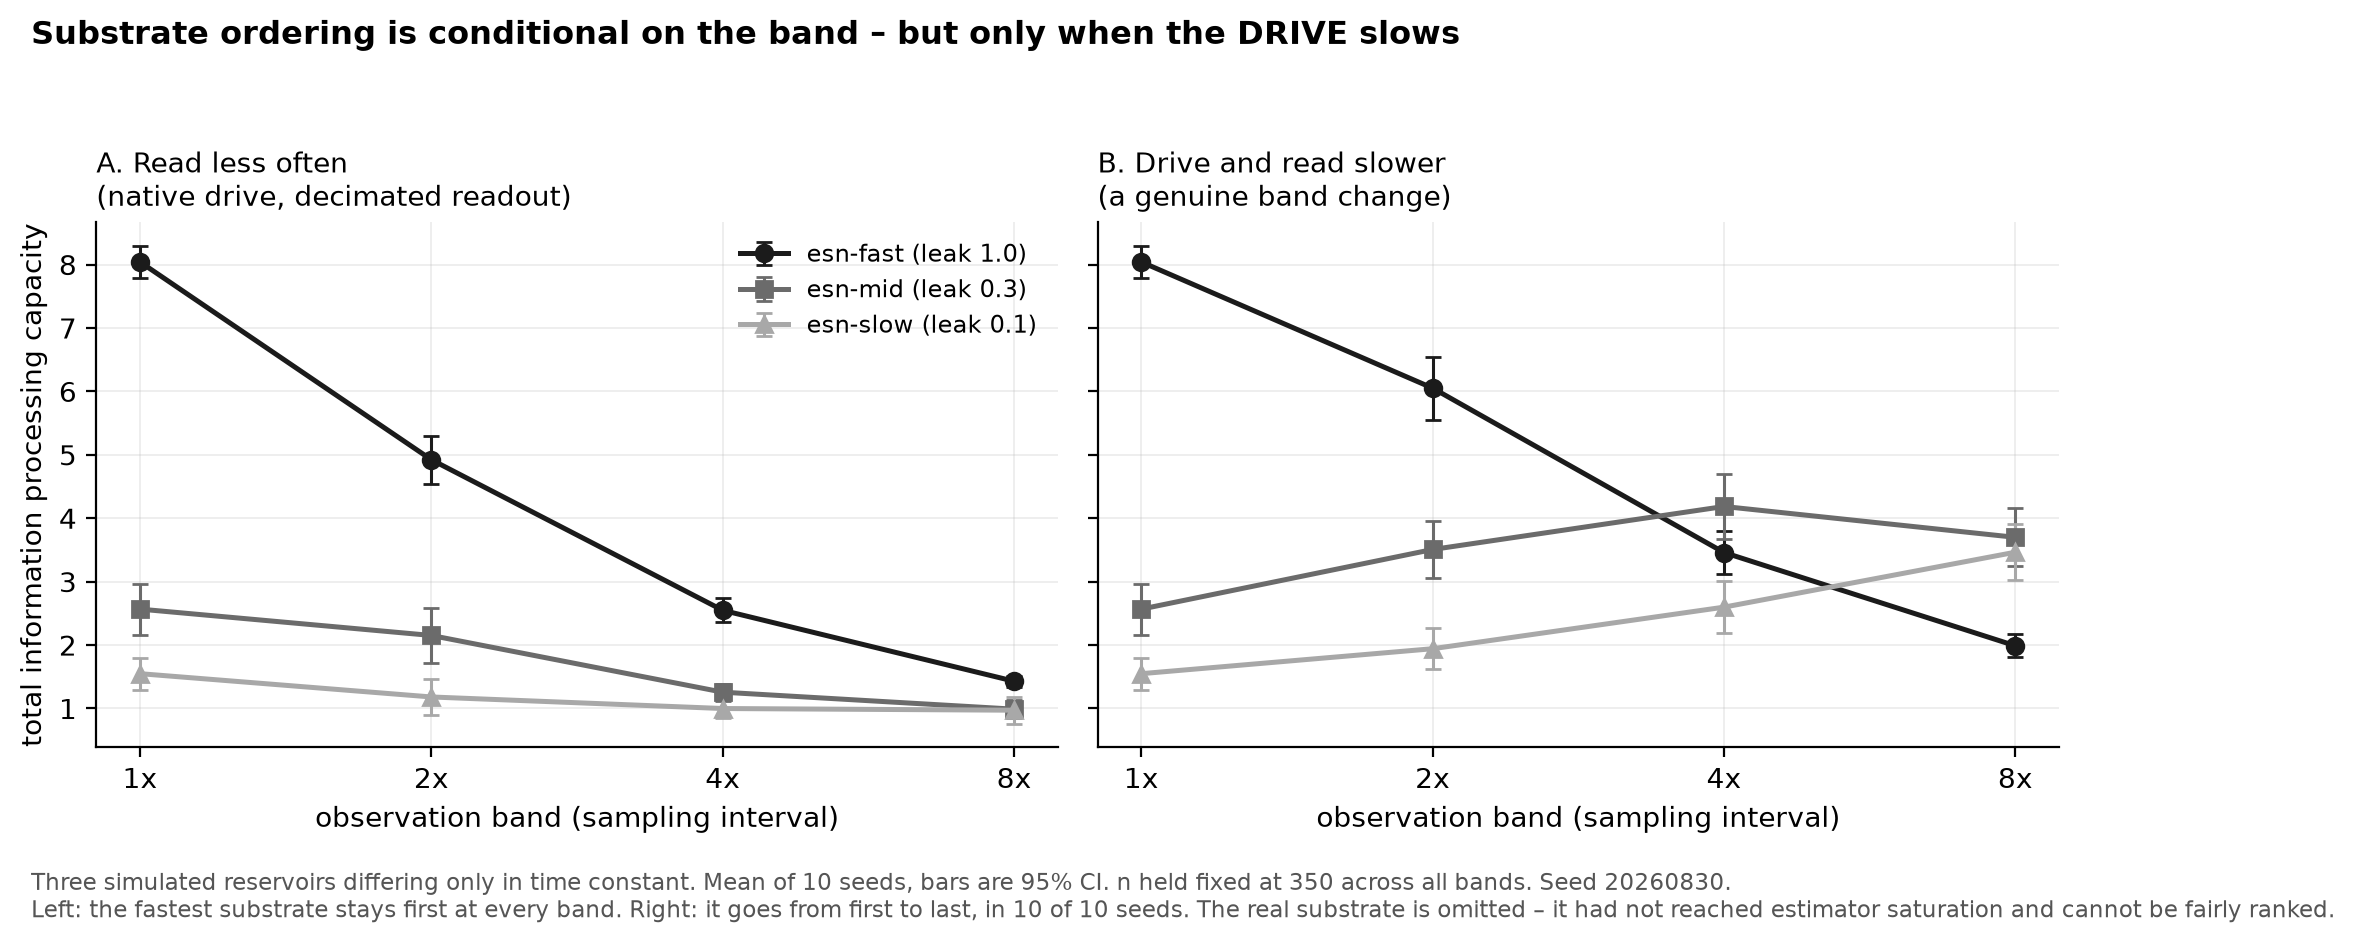
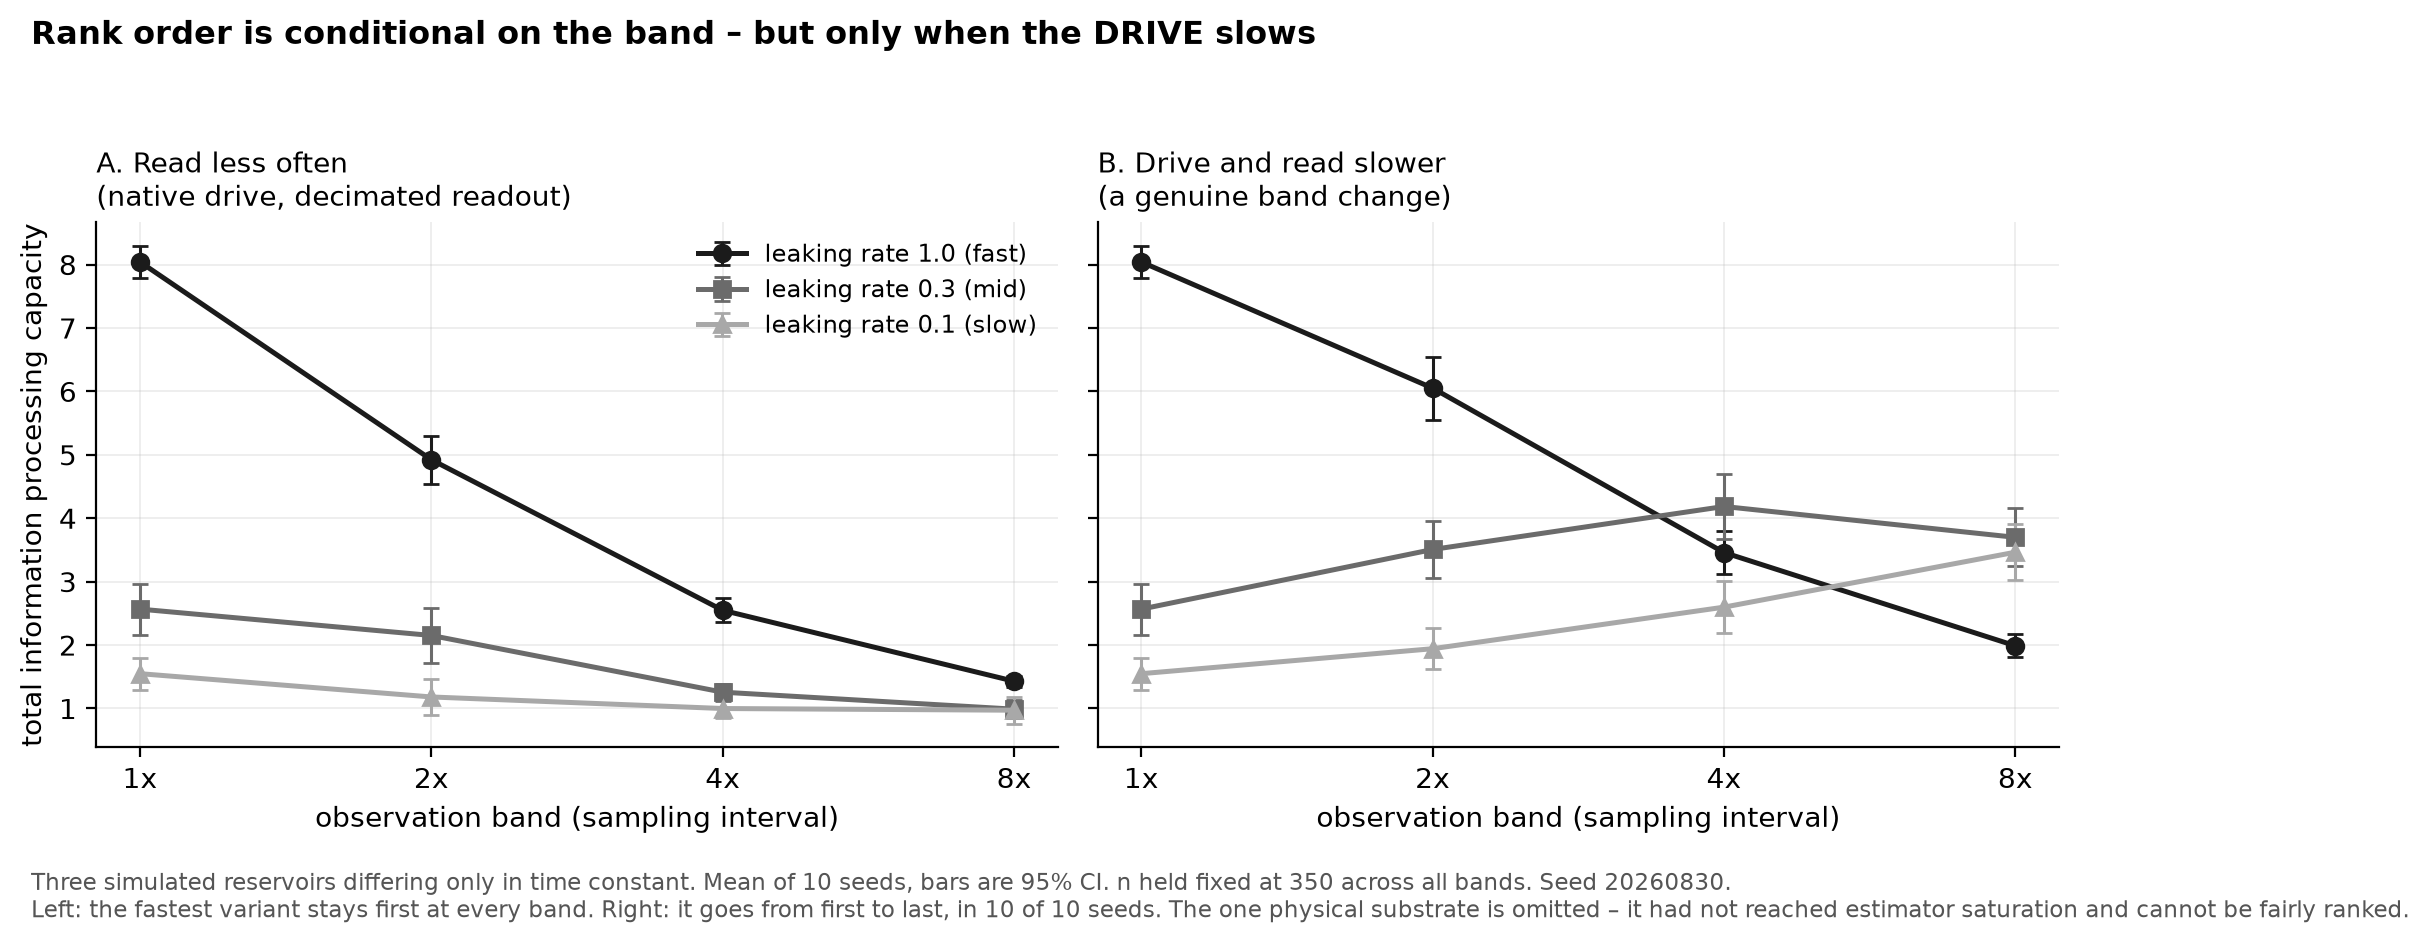
Correct the figure vocabulary and the retracted mechanism; add availability
The figures were rendered before the accompanying paper settled its wording, and
two of them shipped claims the paper no longer makes:

- band_ordering.png was titled "Substrate ordering is conditional on the band".
  Leaky ESNs differing only in leak rate are parameterised variants within one
  architecture family, not different substrates. Retitled to "Rank order", legend
  relabelled to the leaking rates, and the caption now says "the fastest variant".
- e1_architecture.png asserted the ALIASING mechanism -- "because a resonant
  substrate read below twice its oscillation frequency is aliased" -- which E4
  tested and RETRACTED. Its caption now states the retraction and offers the
  graded timescale mismatch as a description, not a mechanism.

Figures regenerated from the existing result tables. No experiment was re-run and
no number changed; this is a rendering fix.

In make_figure.py the style dict is now keyed by the CSV's `substrate` column
value with a separate LABEL map for display. Renaming the keys directly broke the
lookup, because those keys are data values, not labels.

README: title and figure alt-text corrected, a wording note added explaining that
"substrate" below refers to the study as first written, and an Availability
section added carrying the Zenodo concept DOI and the companion Hugging Face
dataset -- required by the public mirror standard, previously absent.

Claude-Session: https://claude.ai/code/session_01WoL6mxdCGPFFDwAFebPug2

diff --git a/code/make_figure.py b/code/make_figure.py
@@ -16,11 +16,22 @@ OUT = Path(__file__).resolve().parents[1] / "output"
 df = pd.read_csv(OUT / "band_ordering_rows.csv")
 df = df[df.substrate != "nanowire-network (real)"]
 
+# Keyed by the value in the CSV's `substrate` column (the data schema, which does
+# not change); LABEL supplies the display name used in the legend. The two are
+# separate because the paper's vocabulary was corrected after these rows were run:
+# leaky ESNs differing only in leak rate are parameterised VARIANTS within one
+# architecture family, not different substrates.
 STYLE = {
     "esn-fast (leak 1.0)": ("#1b1b1b", "o", "-"),
     "esn-mid (leak 0.3)": ("#6b6b6b", "s", "-"),
     "esn-slow (leak 0.1)": ("#a8a8a8", "^", "-"),
     "nanowire-network (real)": ("#c1462c", "D", "--"),
+}
+LABEL = {
+    "esn-fast (leak 1.0)": "leaking rate 1.0 (fast)",
+    "esn-mid (leak 0.3)": "leaking rate 0.3 (mid)",
+    "esn-slow (leak 0.1)": "leaking rate 0.1 (slow)",
+    "nanowire-network (real)": "nanowire network (physical)",
 }
 
 fig, axes = plt.subplots(1, 2, figsize=(10.5, 4.4), sharey=True)
@@ -50,7 +61,7 @@ for ax, (arm, title) in zip(
             ms=6,
             capsize=3,
             elinewidth=1.1,
-            label=name,
+            label=LABEL[name],
         )
     ax.set_xscale("log", base=2)
     ax.set_xticks([1, 2, 4, 8])
@@ -63,7 +74,7 @@ for ax, (arm, title) in zip(
 axes[0].set_ylabel("total information processing capacity")
 axes[0].legend(frameon=False, fontsize=8.5, loc="upper right")
 fig.suptitle(
-    "Substrate ordering is conditional on the band \u2013 but only when the DRIVE slows",
+    "Rank order is conditional on the band \u2013 but only when the DRIVE slows",
     fontsize=11.5,
     x=0.02,
     ha="left",
@@ -74,8 +85,8 @@ fig.text(
     -0.04,
     "Three simulated reservoirs differing only in time constant. Mean of 10 seeds, bars are 95% CI. "
     "n held fixed at 350 across all bands. Seed 20260830.\n"
-    "Left: the fastest substrate stays first at every band. Right: it goes from first to last, in 10 of 10 seeds. "
-    "The real substrate is omitted \u2013 it had not reached estimator saturation and cannot be fairly ranked.",
+    "Left: the fastest variant stays first at every band. Right: it goes from first to last, in 10 of 10 seeds. "
+    "The one physical substrate is omitted \u2013 it had not reached estimator saturation and cannot be fairly ranked.",
     fontsize=8.2,
     color="#555",
 )

diff --git a/code/make_figure_e1.py b/code/make_figure_e1.py
@@ -82,14 +82,14 @@ fig.suptitle(
 fig.text(
     0.02,
     -0.07,
-    "Two architecture families, three substrates each, differing only in time constant. "
+    "Two architecture families, three variants each, differing only in time constant. "
     "Mean of 10 seeds on identical drives, bars are 95% CI, n held fixed at 350.\n"
     "Top row: in the ESN family, decimating the readout (A) reorders nothing while slowing "
     "the drive (B) inverts the ordering – the published result.\n"
     "Bottom row: in the oscillator family, slowing the drive inverts it again (10 of 10 seeds), "
-    "but decimating the readout ALSO costs the fastest substrate its top rank,\n"
-    "because a resonant substrate read below twice its oscillation frequency is aliased. "
-    "A leaky integrator has no oscillation and no such limit.",
+    "but decimating the readout ALSO costs the fastest variant its top rank.\n"
+    "No mechanism is claimed for that: an aliasing account was tested against a 12-point sweep and RETRACTED; "
+    "the honest description is a graded, thresholdless timescale mismatch.",
     fontsize=8.2,
     color="#555",
 )

diff --git a/code/make_figure_e2.py b/code/make_figure_e2.py
@@ -79,11 +79,11 @@ fig.suptitle(
 fig.text(
     0.02,
     -0.07,
-    "Paired per-seed difference between the fastest and middle substrate in Arm B, 10 seeds, bars are 95% CI. "
+    "Paired per-seed difference between the fastest and middle variant in Arm B, 10 seeds, bars are 95% CI. "
     "Crossing zero is the inversion.\n"
     "Every horizon crosses, at both sample budgets, in 10 of 10 seeds – so the published Arm A / Arm B distinction "
     "is not an artefact of holding max_delay at 8 (bold line).\n"
-    "But the crossing moves: a longer horizon inverts the ordering at a finer band and reverses all three substrates "
+    "But the crossing moves: a longer horizon inverts the ordering at a finer band and reverses all three variants "
     "rather than only demoting the fastest.\n"
     "The n = 350 and n = 2800 panels agree, including for the horizon that is infeasible at the smaller budget "
     "(dotted), so none of this is estimator bias.",

diff --git a/README.md b/README.md
@@ -1,13 +1,34 @@
 [![MIT License](https://img.shields.io/badge/Code-MIT-blue.svg)](LICENSE)
 [![CC-BY 4.0](https://img.shields.io/badge/Data-CC--BY_4.0-lightgrey.svg)](LICENSE-data)
-![Last Updated](https://img.shields.io/badge/updated-2026--08--30-success)
+![Last Updated](https://img.shields.io/badge/updated-2026--08--31-success)
 
-# Does the observation band change which substrate computes better?
+# Does the observation band change which system computes better?
 
 A small, fully reproducible experiment on reservoir-computing benchmarks.
 
 **Short answer: yes, but only when the *drive* slows — not when you merely read less often.**
 Those two are routinely conflated, and they give opposite answers about ordering.
+
+> **A note on wording, added 2026-08-31.** The objects compared here are **parameterised variants
+> within one architecture family** — leaky echo-state networks differing only in leak rate, and
+> damped Duffing oscillator banks differing only in natural frequency. They are *not* different
+> substrates, and the accompanying paper calls them **leaking-rate variants** and **oscillator-bank
+> variants** for that reason. The only physical substrate in the study is the nanowire network, and
+> it is excluded from every ordering. The word "substrate" survives in places below because this
+> README was written first; where it names one of the simulated families, read "variant". The
+> `substrate` column in the result tables is the original data schema and is kept so the CSVs
+> round-trip against this code.
+
+## Availability
+
+- **Paper** — *Rank Order Under a Capacity Benchmark Is Conditional on the Observation Band and the
+  Delay Horizon*, concept DOI
+  [10.5281/zenodo.22206844](https://doi.org/10.5281/zenodo.22206844) (resolves to the latest version).
+- **Derived tables, run logs and figures** — archived as a companion Hugging Face dataset,
+  [spectralbranding/band-conditionality-tables](https://huggingface.co/datasets/spectralbranding/band-conditionality-tables).
+- **Code** — this repository. `./reproduce.sh` regenerates every number and figure from a clean
+  clone, deterministically, with no provider key. The one input not redistributed is the physical
+  recording, which `reproduce.sh` fetches from its own source.
 
 ---
 
@@ -48,7 +69,7 @@ Ten independent seeds per substrate, each drawing a fresh reservoir *and* a fres
 
 ## Results
 
-![Substrate ordering against observation band](output/figures/band_ordering.png)
+![Rank order against observation band](output/figures/band_ordering.png)
 
 **Arm A — reading less often costs capacity and reorders nothing.** The fastest substrate is first at
 every band, in every seed. **This holds for echo-state networks and does not generalise:** on an
